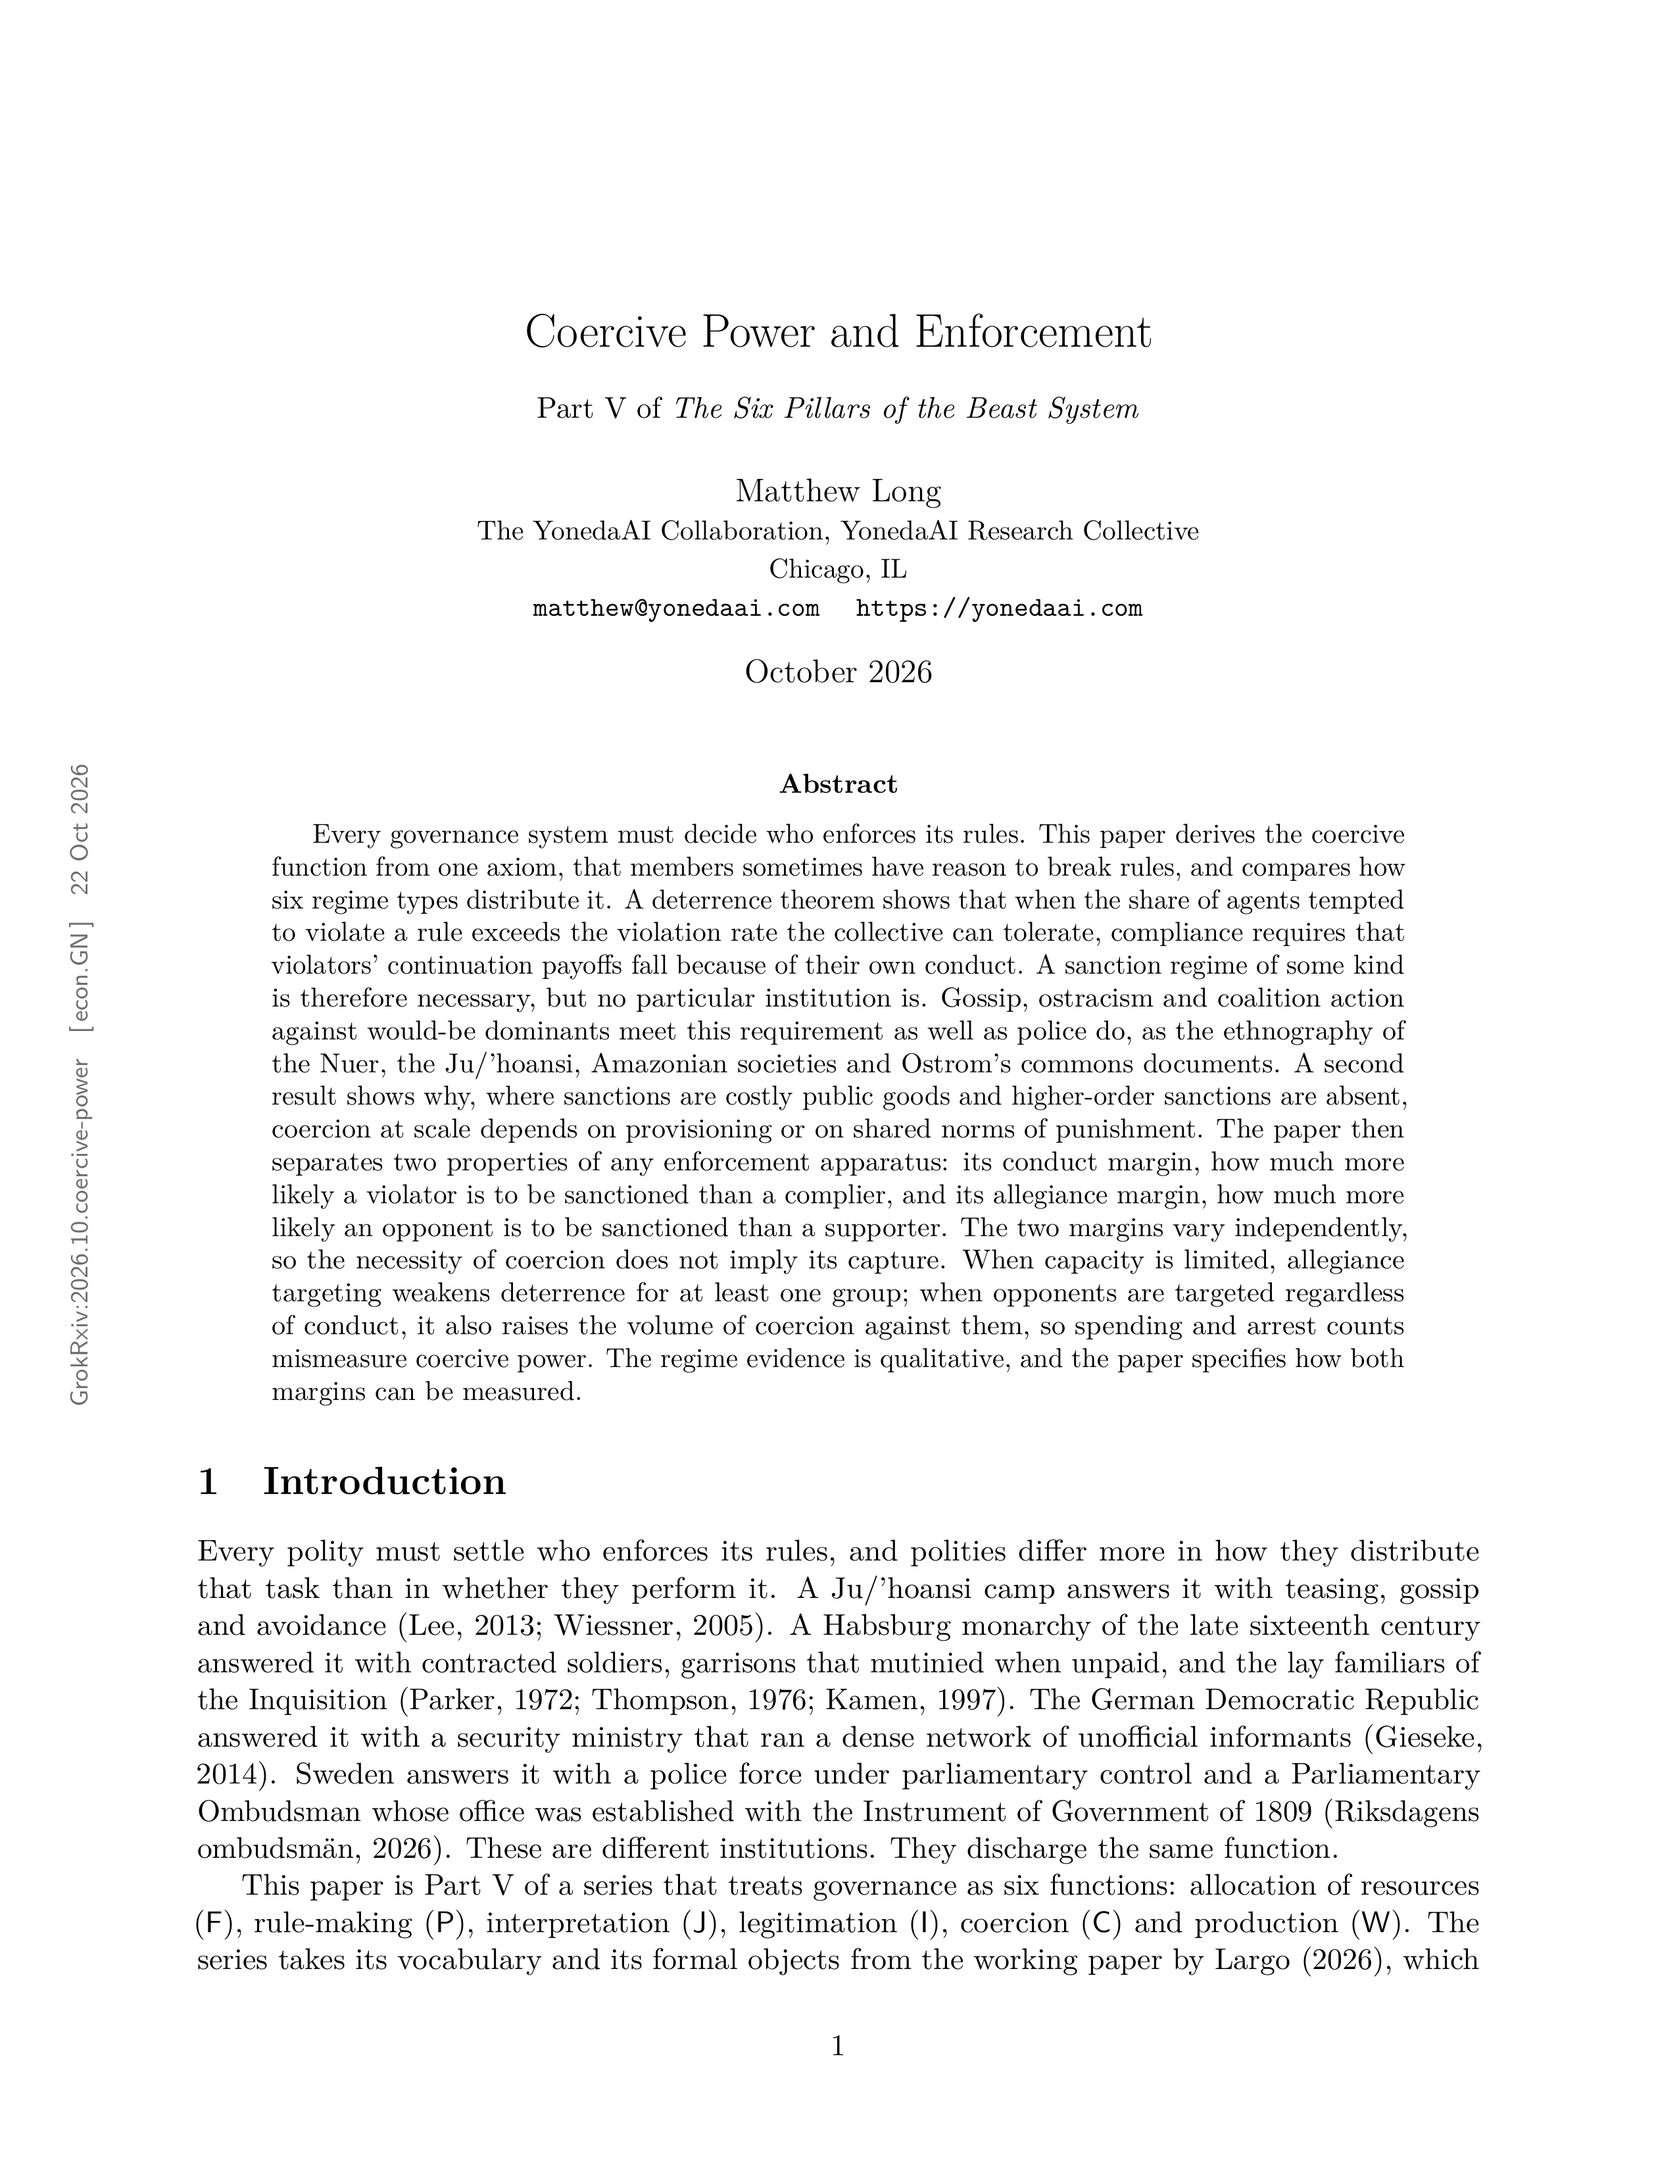
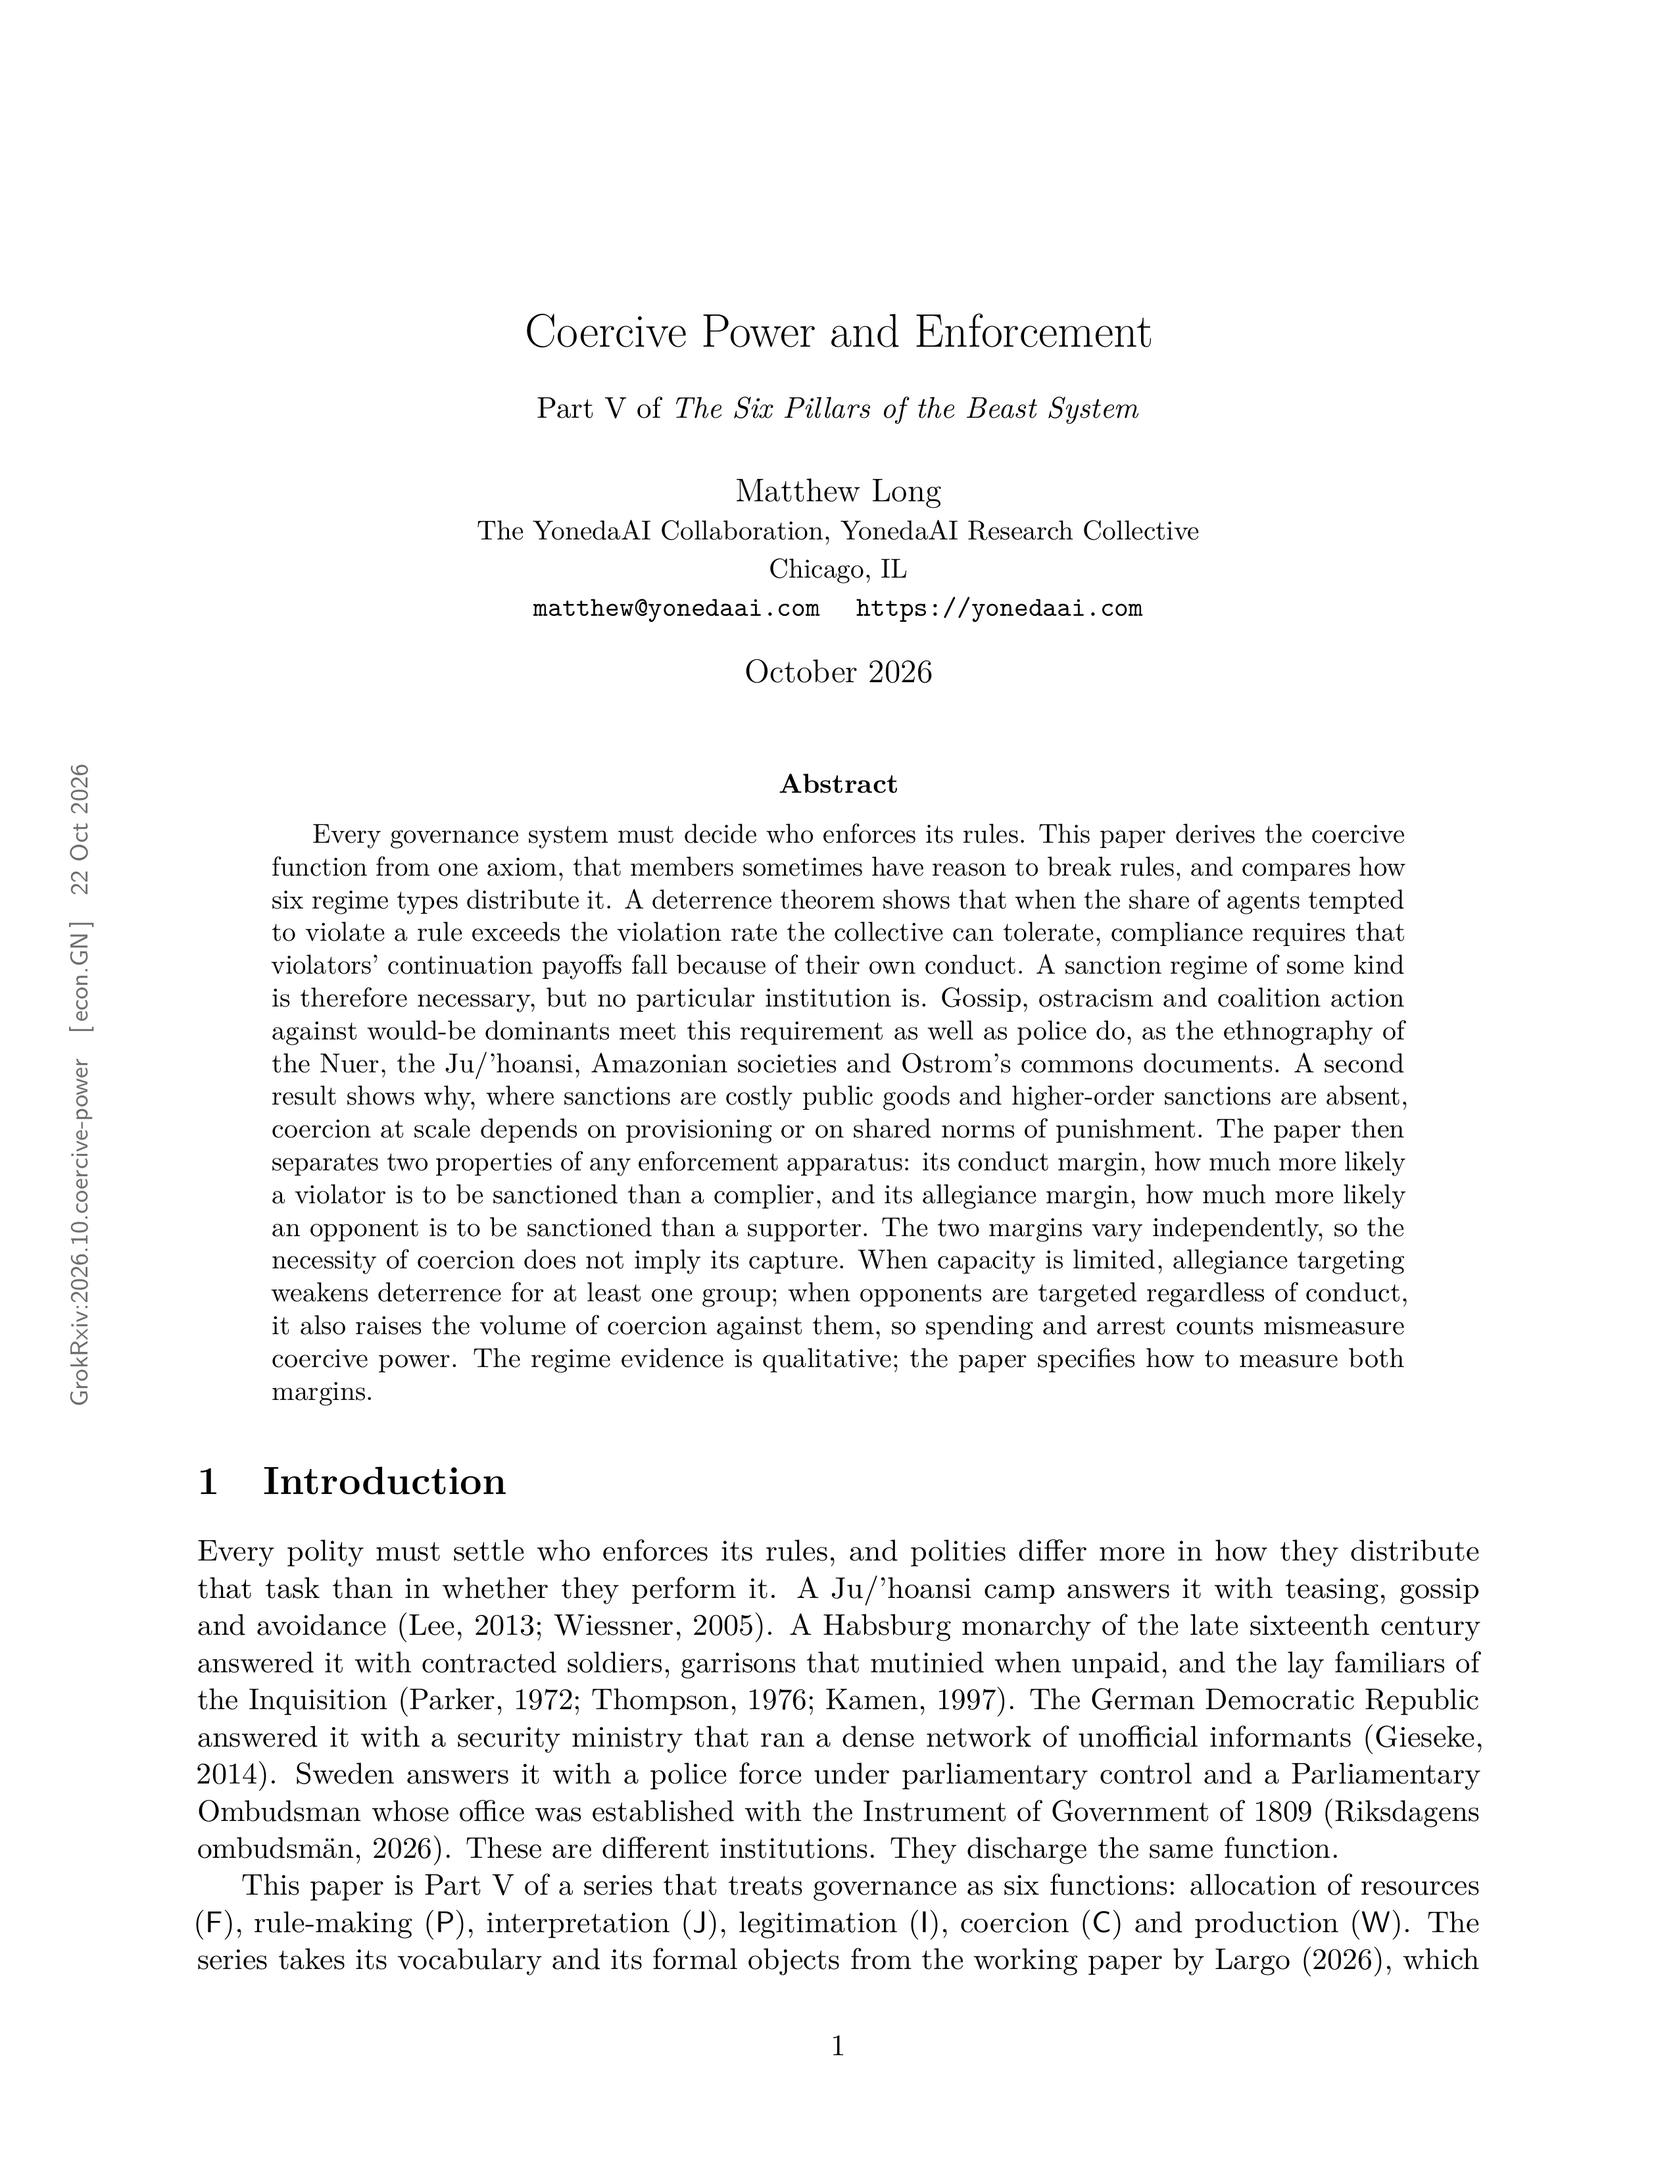
Trim Part V abstract to the 250-word limit; add default OG card

Changed region(s): [[0.1549, 0.5306, 0.8365, 0.6555]]

diff --git a/papers/latex/coercive-power.tex b/papers/latex/coercive-power.tex
@@ -72,7 +72,7 @@
 \maketitle
 
 \begin{abstract}
-Every governance system must decide who enforces its rules. This paper derives the coercive function from one axiom, that members sometimes have reason to break rules, and compares how six regime types distribute it. A deterrence theorem shows that when the share of agents tempted to violate a rule exceeds the violation rate the collective can tolerate, compliance requires that violators' continuation payoffs fall because of their own conduct. A sanction regime of some kind is therefore necessary, but no particular institution is. Gossip, ostracism and coalition action against would-be dominants meet this requirement as well as police do, as the ethnography of the Nuer, the Ju/'hoansi, Amazonian societies and Ostrom's commons documents. A second result shows why, where sanctions are costly public goods and higher-order sanctions are absent, coercion at scale depends on provisioning or on shared norms of punishment. The paper then separates two properties of any enforcement apparatus: its conduct margin, how much more likely a violator is to be sanctioned than a complier, and its allegiance margin, how much more likely an opponent is to be sanctioned than a supporter. The two margins vary independently, so the necessity of coercion does not imply its capture. When capacity is limited, allegiance targeting weakens deterrence for at least one group; when opponents are targeted regardless of conduct, it also raises the volume of coercion against them, so spending and arrest counts mismeasure coercive power. The regime evidence is qualitative, and the paper specifies how both margins can be measured.
+Every governance system must decide who enforces its rules. This paper derives the coercive function from one axiom, that members sometimes have reason to break rules, and compares how six regime types distribute it. A deterrence theorem shows that when the share of agents tempted to violate a rule exceeds the violation rate the collective can tolerate, compliance requires that violators' continuation payoffs fall because of their own conduct. A sanction regime of some kind is therefore necessary, but no particular institution is. Gossip, ostracism and coalition action against would-be dominants meet this requirement as well as police do, as the ethnography of the Nuer, the Ju/'hoansi, Amazonian societies and Ostrom's commons documents. A second result shows why, where sanctions are costly public goods and higher-order sanctions are absent, coercion at scale depends on provisioning or on shared norms of punishment. The paper then separates two properties of any enforcement apparatus: its conduct margin, how much more likely a violator is to be sanctioned than a complier, and its allegiance margin, how much more likely an opponent is to be sanctioned than a supporter. The two margins vary independently, so the necessity of coercion does not imply its capture. When capacity is limited, allegiance targeting weakens deterrence for at least one group; when opponents are targeted regardless of conduct, it also raises the volume of coercion against them, so spending and arrest counts mismeasure coercive power. The regime evidence is qualitative; the paper specifies how to measure both margins.
 \end{abstract}
 
 \section{Introduction}
